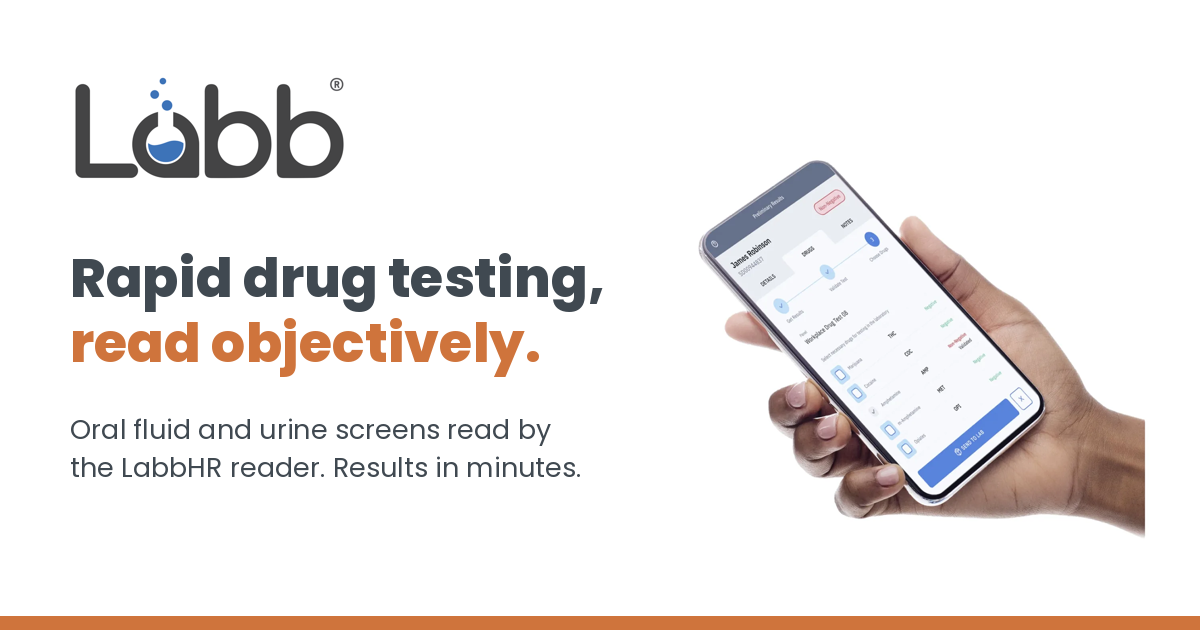
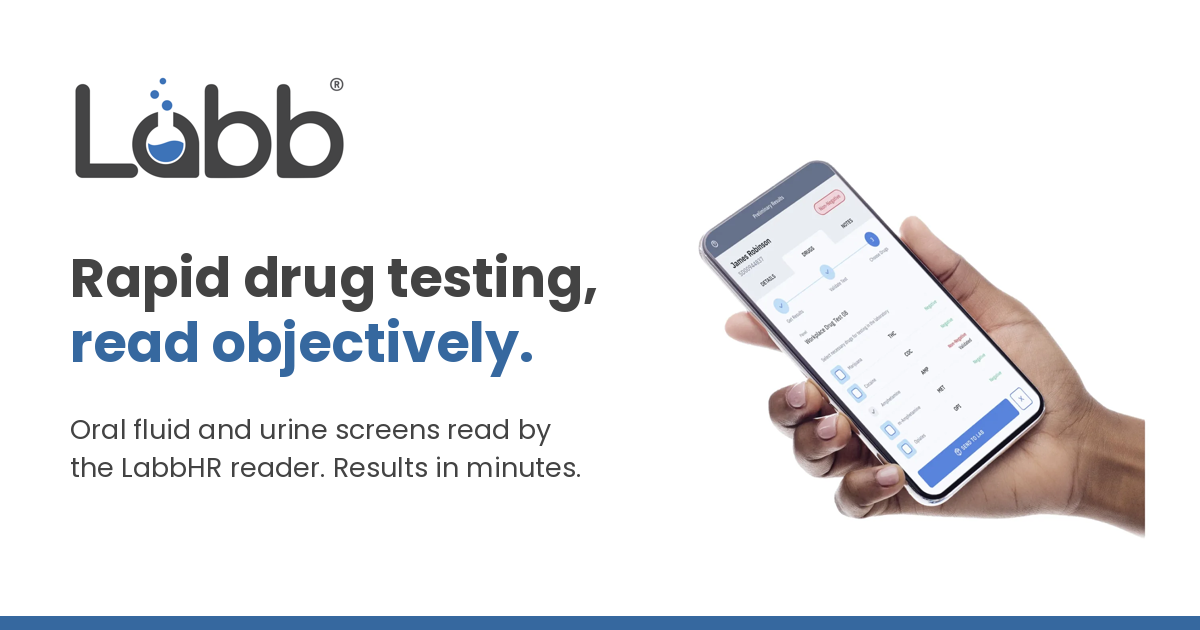
Match the Shopify color scheme
Labb blue (#36689f) header and feature bands, green (#30ad7b) buttons,
charcoal (#434343) top bar, text and footer, light grey (#f1f1f1)
sections and cards. Replaces the LabbHR orange accents site-wide; white
Labb logo in the header; OG image recolored.

Claude-Session: https://claude.ai/code/session_01KcM2dNppJBUcnHhzd68Qpq

Changed region(s): [[0.0, 0.9651, 1.0, 1.0], [0.0617, 0.4222, 0.4625, 0.6032], [0.37, 0.3921, 0.5242, 0.5127]]

diff --git a/app/globals.css b/app/globals.css
@@ -6,20 +6,22 @@
 @import "@fontsource/poppins/800.css";
 
 :root {
-  --orange: #cf743c;
-  --orange-hover: #b8622f;
-  --tint-20: #f5e3d8;
-  --tint-10: #faf1ec;
-  --dark: #404951;
-  --dark-2: #364048;
-  --muted: #5f6a74;
-  --blue: #3f73b9;
+  /* Labb palette, matched to the Shopify theme (Nov 2026) */
+  --brand: #36689f;        /* Labb blue: header, bands, accents */
+  --brand-dark: #2b5482;
+  --brand-tint: #e8eef5;
+  --green: #30ad7b;        /* primary buttons */
+  --green-hover: #27936a;
+  --dark: #434343;         /* headings, top bar, footer */
+  --dark-2: #434343;
+  --muted: #6b6b6b;
+  --blue: #1773b0;         /* links */
   --red: #e63e57;
-  --green: #25b34b;
   --gray: #c8d3d3;
   --border: #dfe5e5;
-  --bg-soft: #f4f6f6;
-  --radius-card: 14px;
+  --bg-soft: #f1f1f1;
+  --card-grey: #eaeaea;
+  --radius-card: 12px;
   --radius-pill: 999px;
   --wrap: 1200px;
   --shadow: 0 20px 50px rgba(64, 73, 81, 0.08);
@@ -45,7 +47,7 @@ h1 { font-size: clamp(2.3rem, 5vw, 3.9rem); font-weight: 800; letter-spacing: -0
 h2 { font-size: clamp(1.75rem, 3.2vw, 2.6rem); font-weight: 700; }
 h3 { font-size: 1.25rem; font-weight: 600; }
 p { margin: 0 0 1em; }
-.em { color: var(--orange); }
+.em { color: var(--brand); }
 
 .skip { position: absolute; left: -9999px; top: 0; background: #fff; padding: 12px 16px; z-index: 100; }
 .skip:focus { left: 12px; top: 12px; }
@@ -55,8 +57,8 @@ p { margin: 0 0 1em; }
 .section.soft { background: var(--bg-soft); border-top: 1px solid var(--border); border-bottom: 1px solid var(--border); }
 .section.tight { padding: 56px 0; }
 .eyebrow {
-  display: inline-block; font-size: 0.8rem; font-weight: 700; letter-spacing: 0.12em; text-transform: uppercase;
-  color: var(--dark); border-left: 4px solid var(--orange); padding-left: 10px; margin-bottom: 16px;
+  display: inline-block; font-size: 0.78rem; font-weight: 500; letter-spacing: 0.12em; text-transform: uppercase;
+  color: var(--muted); margin-bottom: 12px;
 }
 .lede { font-size: 1.18rem; line-height: 1.65; color: var(--dark); max-width: 640px; }
 .intro { font-size: 1.06rem; color: var(--muted); max-width: 760px; margin-bottom: 40px; }
@@ -66,48 +68,53 @@ p { margin: 0 0 1em; }
 /* Buttons */
 .btn {
   display: inline-flex; align-items: center; justify-content: center; gap: 8px;
-  min-height: 48px; padding: 12px 26px; border-radius: var(--radius-pill); border: 2px solid transparent;
-  font: 600 1rem/1.2 Poppins, sans-serif; text-decoration: none; cursor: pointer; transition: background 0.15s, color 0.15s, border-color 0.15s;
+  min-height: 48px; padding: 12px 30px; border-radius: 12px; border: 2px solid transparent;
+  font: 500 1rem/1.2 Poppins, sans-serif; letter-spacing: 0.04em; text-decoration: none; cursor: pointer; transition: background 0.15s, color 0.15s, border-color 0.15s;
 }
-.btn-primary { background: var(--orange); color: #fff; font-weight: 700; }
-.btn-primary:hover { background: var(--orange-hover); color: #fff; }
-.btn-primary::before { content: "→"; font-weight: 700; }
+.btn-primary { background: var(--green); color: #fff; }
+.btn-primary:hover { background: var(--green-hover); color: #fff; }
 .btn-outline { border-color: var(--dark); color: var(--dark); background: #fff; }
 .btn-outline:hover { background: var(--dark); color: #fff; }
-.btn-light { background: #fff; color: var(--dark); }
-.btn-light:hover { background: var(--tint-10); color: var(--dark); }
+.btn-light { background: #fff; color: var(--brand); }
+.btn-light:hover { background: var(--brand-tint); color: var(--brand); }
+.btn-ghost { border-color: rgba(255,255,255,0.7); color: #fff; background: transparent; }
+.btn-ghost:hover { background: rgba(255,255,255,0.12); color: #fff; }
 .btn-block { width: 100%; }
 .btn[disabled] { opacity: 0.6; cursor: wait; }
 .btn-row { display: flex; flex-wrap: wrap; gap: 12px; margin-top: 28px; }
 
 /* Header */
-.site-header { position: sticky; top: 0; z-index: 50; background: rgba(255,255,255,0.97); border-bottom: 1px solid var(--border); backdrop-filter: saturate(1.4) blur(6px); }
-.utility { background: var(--dark); color: #e4ebf1; font-size: 0.85rem; }
+.site-header { position: sticky; top: 0; z-index: 50; background: var(--brand); }
+.utility { background: var(--dark); color: #fff; font-size: 0.8rem; letter-spacing: 0.06em; text-transform: uppercase; }
 .utility .wrap { display: flex; justify-content: flex-end; gap: 22px; padding-top: 6px; padding-bottom: 6px; }
-.utility a { color: #fff; text-decoration: none; font-weight: 500; }
+.utility a { color: #fff; text-decoration: none; font-weight: 600; }
 .utility a:hover { text-decoration: underline; }
 .header-row { display: flex; align-items: center; justify-content: space-between; gap: 24px; height: 76px; }
 .logo { display: flex; align-items: center; gap: 14px; text-decoration: none; }
 .logo img { height: 40px; width: auto; }
-.logo .sub { height: 34px; padding-left: 14px; border-left: 1px solid var(--border); }
+
 .main-nav { display: flex; align-items: center; gap: 4px; }
 .main-nav > ul { list-style: none; display: flex; gap: 2px; margin: 0; padding: 0; }
-.main-nav a, .main-nav summary { display: block; padding: 10px 12px; color: var(--dark); text-decoration: none; font-weight: 500; font-size: 0.97rem; border-radius: 8px; cursor: pointer; list-style: none; }
+.main-nav a, .main-nav summary { display: block; padding: 10px 12px; color: #fff; text-decoration: none; font-weight: 400; font-size: 0.9rem; letter-spacing: 0.06em; text-transform: uppercase; border-radius: 8px; cursor: pointer; list-style: none; }
 .main-nav summary::-webkit-details-marker { display: none; }
-.main-nav summary::after { content: "▾"; font-size: 0.7em; margin-left: 6px; color: var(--muted); }
-.main-nav a:hover, .main-nav summary:hover { background: var(--bg-soft); color: var(--dark); }
-.main-nav a[aria-current="page"] { color: var(--orange); }
+.main-nav summary::after { content: "▾"; font-size: 0.7em; margin-left: 6px; color: rgba(255,255,255,0.8); }
+.main-nav a:hover, .main-nav summary:hover { background: rgba(255,255,255,0.12); color: #fff; }
+.main-nav a[aria-current="page"] { text-decoration: underline; text-underline-offset: 6px; }
+.main-nav details ul a { color: var(--dark); text-transform: none; letter-spacing: 0; font-size: 0.95rem; }
+.main-nav details ul a:hover { background: var(--bg-soft); color: var(--dark); }
+.main-nav details ul a[aria-current="page"] { color: var(--brand); text-decoration: none; }
 .main-nav details { position: relative; }
 .main-nav details ul { position: absolute; top: calc(100% + 6px); left: 0; min-width: 260px; list-style: none; margin: 0; padding: 8px; background: #fff; border: 1px solid var(--border); border-radius: 12px; box-shadow: var(--shadow); }
 .nav-cta { margin-left: 10px; min-height: 44px; padding: 10px 20px; }
-.menu-toggle { display: none; background: none; border: 1px solid var(--border); border-radius: 8px; padding: 10px 12px; font: 600 0.95rem Poppins, sans-serif; color: var(--dark); cursor: pointer; }
+.menu-toggle { display: none; background: none; border: 1px solid rgba(255,255,255,0.6); border-radius: 8px; padding: 10px 12px; font: 600 0.95rem Poppins, sans-serif; color: #fff; cursor: pointer; }
 
 @media (max-width: 1020px) {
   .menu-toggle { display: inline-flex; }
-  .main-nav { display: none; position: absolute; left: 0; right: 0; top: 100%; flex-direction: column; align-items: stretch; background: #fff; border-bottom: 1px solid var(--border); padding: 12px 24px 24px; box-shadow: var(--shadow); max-height: calc(100vh - 110px); overflow: auto; }
+  .main-nav { display: none; position: absolute; left: 0; right: 0; top: 100%; flex-direction: column; align-items: stretch; background: var(--brand); border-bottom: 1px solid var(--border); padding: 12px 24px 24px; box-shadow: var(--shadow); max-height: calc(100vh - 110px); overflow: auto; }
   .main-nav.open { display: flex; }
   .main-nav > ul { flex-direction: column; }
-  .main-nav details ul { position: static; box-shadow: none; border: 0; padding: 0 0 0 12px; }
+  .main-nav details ul { position: static; box-shadow: none; border: 0; padding: 0 0 0 12px; background: transparent; }
+  .main-nav details ul a { color: #fff; }
   .nav-cta { margin: 12px 0 0; }
   .logo .sub { display: none; }
 }
@@ -121,7 +128,7 @@ p { margin: 0 0 1em; }
 .hero.form-hero .wrap { align-items: start; }
 .checks { list-style: none; padding: 0; margin: 24px 0 0; display: grid; gap: 12px; }
 .checks li { display: flex; gap: 12px; align-items: flex-start; }
-.checks li::before { content: ""; flex: none; width: 9px; height: 15px; margin: 4px 6px 0 6px; border: solid var(--orange); border-width: 0 3px 3px 0; transform: rotate(45deg); }
+.checks li::before { content: ""; flex: none; width: 9px; height: 15px; margin: 4px 6px 0 6px; border: solid var(--green); border-width: 0 3px 3px 0; transform: rotate(45deg); }
 @media (max-width: 900px) { .hero .wrap { grid-template-columns: 1fr; gap: 36px; padding-top: 48px; padding-bottom: 56px; } }
 
 /* Grids and cards */
@@ -129,15 +136,16 @@ p { margin: 0 0 1em; }
 .g2 { grid-template-columns: repeat(auto-fit, minmax(min(420px, 100%), 1fr)); }
 .g3 { grid-template-columns: repeat(auto-fit, minmax(min(300px, 100%), 1fr)); }
 .g4 { grid-template-columns: repeat(auto-fit, minmax(min(240px, 100%), 1fr)); }
-.card { background: #fff; border: 1px solid var(--border); border-radius: var(--radius-card); padding: 26px; }
-.card.top { border-top: 4px solid var(--orange); }
-.card.rail { border-left: 4px solid var(--orange); }
+.card { background: var(--bg-soft); border: 0; border-radius: var(--radius-card); padding: 26px; }
+.section.soft .card { background: var(--card-grey); }
+.card.top { border-top: 4px solid var(--brand); }
+.card.rail { border-left: 4px solid var(--brand); }
 .card h3 { margin-bottom: 8px; }
 .card p { color: var(--muted); margin: 0; font-size: 0.97rem; }
 .card-link { text-decoration: none; color: inherit; display: flex; flex-direction: column; transition: box-shadow 0.15s, transform 0.15s; }
 .card-link:hover { box-shadow: var(--shadow); transform: translateY(-2px); color: inherit; }
 .card-link .more { margin-top: auto; padding-top: 16px; color: var(--blue); font-weight: 600; font-size: 0.95rem; }
-.icon-dot { width: 44px; height: 44px; border-radius: 50%; background: var(--tint-20); color: var(--orange); display: grid; place-items: center; font-weight: 800; margin-bottom: 14px; }
+.icon-dot { width: 44px; height: 44px; border-radius: 50%; background: var(--brand); color: #fff; display: grid; place-items: center; font-weight: 800; margin-bottom: 14px; }
 
 .split { display: grid; grid-template-columns: 1fr 1fr; gap: 64px; align-items: center; }
 .split.reverse > :first-child { order: 2; }
@@ -147,19 +155,19 @@ p { margin: 0 0 1em; }
 .stats { display: grid; grid-template-columns: repeat(auto-fit, minmax(180px, 1fr)); gap: 0; border: 1px solid var(--border); border-radius: var(--radius-card); background: #fff; overflow: hidden; }
 .stats div { padding: 26px 24px; border-right: 1px solid var(--border); }
 .stats div:last-child { border-right: 0; }
-.stats strong { display: block; font-size: 1.9rem; font-weight: 800; color: var(--orange); line-height: 1.1; }
+.stats strong { display: block; font-size: 1.9rem; font-weight: 800; color: var(--brand); line-height: 1.1; }
 .stats span { color: var(--muted); font-size: 0.93rem; }
 
 /* Kits */
 .kit-card { padding: 0; overflow: hidden; }
-.kit-card .ph { background: var(--bg-soft); aspect-ratio: 4 / 3; display: grid; place-items: center; padding: 18px; }
+.kit-card .ph { background: #fff; aspect-ratio: 4 / 3; display: grid; place-items: center; padding: 18px; }
 .kit-card .ph img { max-height: 100%; width: auto; object-fit: contain; }
 .kit-card .bd { padding: 20px 22px 24px; display: flex; flex-direction: column; gap: 8px; flex: 1; }
 .kit-card h3 { font-size: 1.2rem; margin: 0; }
-.pill { display: inline-block; font-size: 0.78rem; font-weight: 700; border-radius: var(--radius-pill); padding: 3px 12px; background: var(--tint-10); border: 1px solid var(--orange); color: var(--dark); align-self: flex-start; }
-.pill.forensic { background: #eef0f2; border-color: var(--dark); }
+.pill { display: inline-block; font-size: 0.78rem; font-weight: 600; border-radius: var(--radius-pill); padding: 3px 12px; background: var(--brand); color: #fff; align-self: flex-start; }
+.pill.forensic { background: var(--dark); }
 .chips { display: flex; flex-wrap: wrap; gap: 6px; }
-.chips span { background: var(--bg-soft); border-radius: 6px; padding: 3px 9px; font-size: 0.82rem; font-weight: 600; }
+.chips span { background: #fff; border-radius: 6px; padding: 3px 9px; font-size: 0.82rem; font-weight: 600; }
 .panel-table { width: 100%; border-collapse: collapse; font-size: 0.96rem; }
 .panel-table th, .panel-table td { text-align: left; padding: 10px 12px; border-bottom: 1px solid var(--border); }
 .panel-table th { font-size: 0.75rem; text-transform: uppercase; letter-spacing: 0.1em; color: var(--muted); }
@@ -167,11 +175,11 @@ p { margin: 0 0 1em; }
 .panel-table td:last-child { text-align: right; white-space: nowrap; }
 .facts { display: grid; grid-template-columns: repeat(auto-fit, minmax(200px, 1fr)); gap: 0; border: 1px solid var(--border); border-radius: 12px; overflow: hidden; margin: 24px 0; }
 .facts div { padding: 14px 16px; border-bottom: 1px solid var(--border); border-right: 1px solid var(--border); margin: -1px -1px 0 0; }
-.facts dt { font-size: 0.72rem; font-weight: 700; text-transform: uppercase; letter-spacing: 0.1em; color: var(--orange); }
+.facts dt { font-size: 0.72rem; font-weight: 600; text-transform: uppercase; letter-spacing: 0.1em; color: var(--brand); }
 .facts dd { margin: 2px 0 0; font-weight: 500; }
 
-.note { display: flex; gap: 12px; background: var(--tint-10); border-left: 4px solid var(--orange); border-radius: 8px; padding: 16px 20px; font-size: 0.95rem; }
-.banner-rule { background: var(--blue); color: #fff; border-radius: 12px; padding: 18px 22px; font-weight: 500; }
+.note { display: flex; gap: 12px; background: var(--brand-tint); border-left: 4px solid var(--brand); border-radius: 8px; padding: 16px 20px; font-size: 0.95rem; }
+.banner-rule { background: var(--brand); color: #fff; border-radius: 12px; padding: 18px 22px; font-weight: 500; }
 
 /* Forms */
 .form-title { font-size: 1.5rem; margin-bottom: 4px; }
@@ -192,23 +200,23 @@ p { margin: 0 0 1em; }
 .field .err { color: var(--red); font-size: 0.85rem; }
 .radios { display: flex; flex-direction: column; gap: 6px; border: 0; margin: 0; padding: 0; }
 .radios label, .check { display: flex; align-items: center; gap: 10px; font-weight: 400; font-size: 0.95rem; cursor: pointer; }
-.radios input, .check input { width: 20px; height: 20px; min-height: 0; accent-color: var(--orange); margin: 0; }
+.radios input, .check input { width: 20px; height: 20px; min-height: 0; accent-color: var(--green); margin: 0; }
 .hp { position: absolute; left: -10000px; width: 1px; height: 1px; overflow: hidden; }
 .fine { font-size: 0.82rem; color: var(--muted); margin: 12px 0 0; text-align: center; }
 .form-error { background: #fdecef; border: 1px solid var(--red); color: var(--dark); border-radius: 8px; padding: 12px 14px; margin-top: 14px; font-size: 0.95rem; }
 .done { text-align: center; padding: 12px 0; }
-.done .ok { width: 64px; height: 64px; border-radius: 50%; background: var(--orange); display: grid; place-items: center; margin: 0 auto 18px; color: #fff; font-size: 30px; }
+.done .ok { width: 64px; height: 64px; border-radius: 50%; background: var(--green); display: grid; place-items: center; margin: 0 auto 18px; color: #fff; font-size: 30px; }
 
 /* CTA band */
-.cta-band { background: var(--dark); color: #fff; border-top: 6px solid var(--orange); }
+.cta-band { background: var(--brand); color: #fff; }
 .cta-band .wrap { display: flex; flex-wrap: wrap; gap: 32px; align-items: center; justify-content: space-between; padding-top: 64px; padding-bottom: 64px; }
 .cta-band h2 { color: #fff; margin-bottom: 8px; }
-.cta-band p { color: #e4ebf1; margin: 0; max-width: 640px; font-size: 1.05rem; }
+.cta-band p { color: rgba(255,255,255,0.88); margin: 0; max-width: 640px; font-size: 1.05rem; }
 
 /* FAQ */
 .faq details { border-bottom: 1px solid var(--border); padding: 18px 0; }
 .faq summary { font-weight: 600; font-size: 1.08rem; cursor: pointer; list-style: none; display: flex; justify-content: space-between; gap: 16px; }
-.faq summary::after { content: "+"; color: var(--orange); font-size: 1.4rem; line-height: 1; }
+.faq summary::after { content: "+"; color: var(--brand); font-size: 1.4rem; line-height: 1; }
 .faq details[open] summary::after { content: "−"; }
 .faq details p { margin: 12px 0 0; color: var(--muted); }
 
@@ -230,8 +238,8 @@ p { margin: 0 0 1em; }
 .article-meta { color: var(--muted); font-size: 0.92rem; }
 
 /* Footer */
-.site-footer { background: var(--dark-2); color: #e4ebf1; font-size: 0.93rem; }
-.site-footer a { color: #e4ebf1; text-decoration: none; }
+.site-footer { background: var(--dark); color: #fff; font-size: 0.93rem; }
+.site-footer a { color: #fff; text-decoration: none; }
 .site-footer a:hover { color: #fff; text-decoration: underline; }
 .footer-top { display: grid; grid-template-columns: 1.4fr repeat(3, 1fr); gap: 40px; padding-top: 64px; padding-bottom: 48px; }
 .footer-top h2 { color: #fff; font-size: 0.8rem; text-transform: uppercase; letter-spacing: 0.12em; margin-bottom: 14px; }
@@ -248,4 +256,10 @@ p { margin: 0 0 1em; }
   .stats div { border-right: 0; border-bottom: 1px solid var(--border); }
   .stats div:last-child { border-bottom: 0; }
   .section { padding: 64px 0; }
+}
+
+@media (max-width: 560px) {
+  .utility .wrap { justify-content: center; gap: 16px; font-size: 0.72rem; }
+  .utility a { white-space: nowrap; }
+  .utility a:last-child { display: none; }
 }

diff --git a/components/Header.tsx b/components/Header.tsx
@@ -26,8 +26,7 @@ export function Header() {
       </div>
       <div className="wrap header-row">
         <Link href="/" className="logo" aria-label="Labb home">
-          <Image src="/brand/labb-logo.png" alt="Labb" width={600} height={245} priority style={{ width: "auto" }} />
-          <Image src="/brand/labbhr-logo.png" alt="LabbHR" width={247} height={300} className="sub" style={{ width: "auto" }} />
+          <Image src="/brand/labb-logo-white.png" alt="Labb" width={600} height={225} priority style={{ width: "auto" }} />
         </Link>
         <button className="menu-toggle" aria-expanded={open} aria-controls="main-nav" onClick={() => setOpen(!open)}>
           {open ? "Close" : "Menu"}

diff --git a/app/layout.tsx b/app/layout.tsx
@@ -18,7 +18,7 @@ export const metadata: Metadata = {
   robots: process.env.NEXT_PUBLIC_NOINDEX === "true" ? { index: false, follow: false } : { index: true, follow: true },
 };
 
-export const viewport: Viewport = { themeColor: "#cf743c", width: "device-width", initialScale: 1 };
+export const viewport: Viewport = { themeColor: "#36689f", width: "device-width", initialScale: 1 };
 
 const gtm = process.env.NEXT_PUBLIC_GTM_ID;
 
